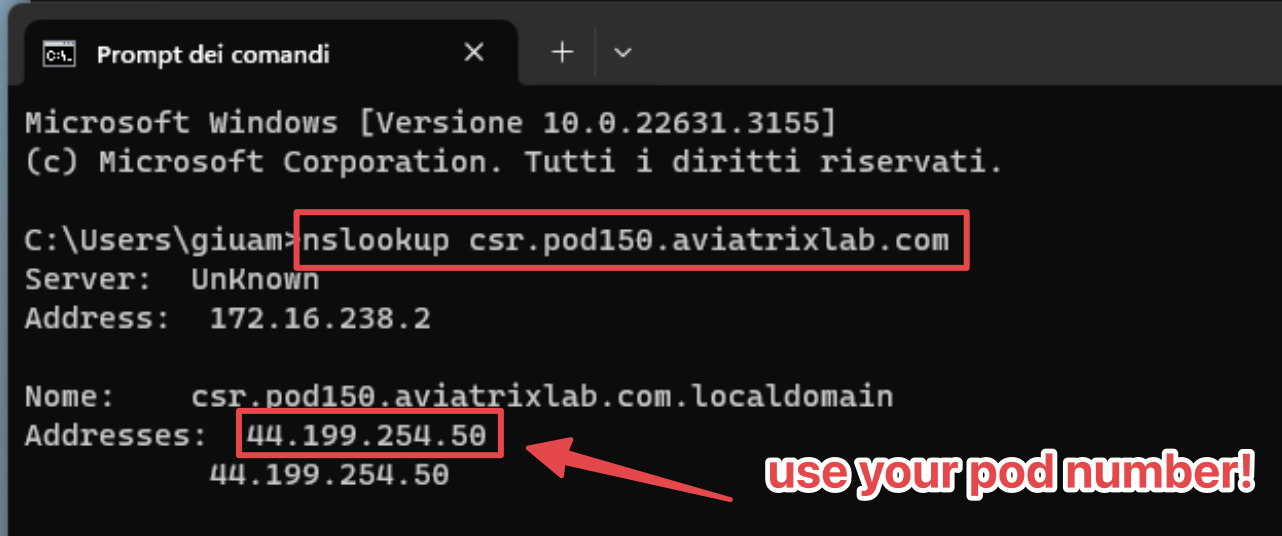
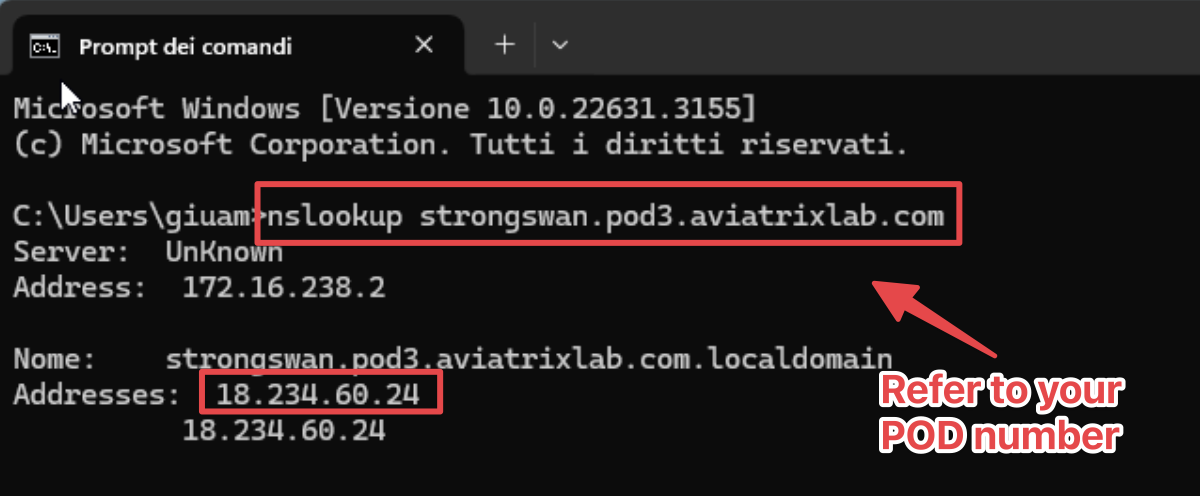
new update for pro (still lab8)

Changed region(s): [[0.0, 0.0, 1.0, 1.0], [0.7092, 0.5444, 0.8325, 0.7258]]

diff --git a/ace_pro/docs/lab8.md b/ace_pro/docs/lab8.md
@@ -79,11 +79,11 @@ Then click on **Save**.
 ---
 align: center
 ---
-DNS Name of the Cisco CSR
+DNS Name of the StrongSwan router
 ```
 
 ```{note}
-Use the command “**dig csr.pod#.aviatrixlab.com +short**” <ins>from your personal laptop terminal</ins> to resolve the symbolic public name of the on-prem-partner1 StrongSwan router and retrieve the <ins>REMOTE GATEWAY PUBLIC IP address</ins>, as depicted in the example below.
+Use the command “**dig strongswan.pod#.aviatrixlab.com +short**” <ins>from your personal laptop terminal</ins> to resolve the symbolic public name of the **on-prem-partner1 StrongSwan router** and retrieve the <ins>REMOTE GATEWAY PUBLIC IP address</ins>, as depicted in the example below.
 ```
 
 <ins>Replace the **#** symbol with your POD number!</ins>
@@ -100,7 +100,7 @@ Dig command in action
 ```{tip}
 For **Windows OS** you can use the command `"nslookup"`:
 
-**nslookup csr.pod#.aviatrixlab.com**
+**nslookup strongswan.pod#.aviatrixlab.com**
 
 ```{figure} images/lab8-nslookup.png
 ---
@@ -109,7 +109,7 @@ align: center
 Nslookup 
 ```
 
-This is how your template will look like.
+This is how your template would look like.
 
 ```{figure} images/lab8-s2ctemplate.png
 ---
@@ -132,7 +132,7 @@ For example, gcp-us-central1-test1 (172.16.1.100) will be reached at 192.168.200
 
 ### 4.2. Site2Cloud Connection - StrongSwan's private IP
 
-The StrongSwan has been alreayd pre-configured with the IPSec statements. Nevertheless, you need to fetch its private IP address!
+The StrongSwan has been alreayd pre-configured with the IPSec commands. Nevertheless, you need to fetch its private IP address!
 
 ```{note}
 The StrongSwan router is not acting as an actual branch router because it is being NAT'd by an **AWS IGW**. For that purpose, you need to specify that the **`Remote Identifier`** of the IKE tunnel is the private IP of the CSR, not the public IP.
@@ -165,7 +165,7 @@ S2C node
 ```
 
 ```{note}
-The connection will show up in red, which in turn means, it is not yet established.
+The connection will show up in red, which in turn means, it is not established yet.
 ```
 
 Then click on the `"Settings"` tab, expand the `"General"` section and paste the Private IP on the `"Remote Gateway Identifier"` field, as depicted below. 
@@ -190,7 +190,7 @@ align: center
 Remote Gateway Identifier
 ```
 
-After doing so, type `end` to exit configuration mode, followed by `sh ip int br` to verify that the tunnel interface is up on the CSR.
+After doing so, click on the refres button
 
 ```{figure} images/lab8-up.png
 ---
